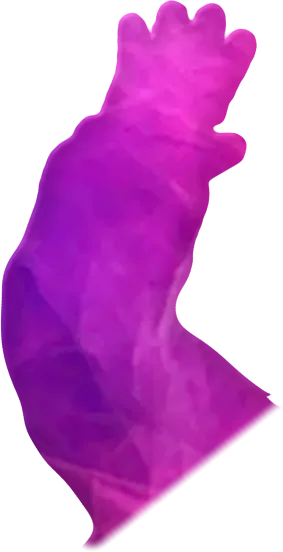
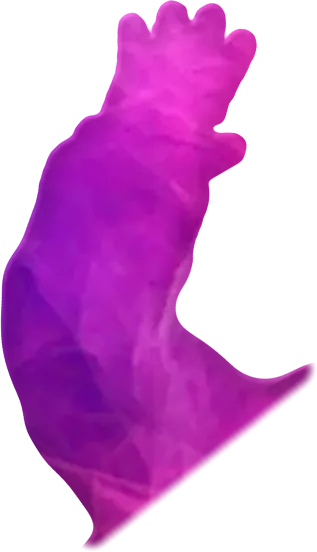
fix(astronaut): left helmet dome is the outline, no offset ring
The left figure's backpack rect stuck out past the helmet shell on the
front and top, so the shell's groove read as a second, offset circle
inside the outline. The pack now only fills the shoulders below the
helmet's equator and the photo-cut zone stops above the shoulders, so the
dome edge is the silhouette and the groove shows only where the helmet
meets the body.

Claude-Session: https://claude.ai/code/session_01AsJodUJ76uuwtQo2Mwdagu

diff --git a/docs/journey/tools/silhouette.py b/docs/journey/tools/silhouette.py
@@ -54,7 +54,7 @@ FIG = {
         erase=[],
         # clean helmet shell + visor (ellipses cx, cy, rx, ry) and backpack (rounded rect x0, y0, x1, y1, r) replace
         # the photo's head inside `zone`; `fine`: circles (cx, cy, r) smoothed lightly (gloves: keep the fingers)
-        helmet=dict(zone=(330, 60, 598, 276), shell=(471, 188, 100, 102), visor=(472, 196, 70, 72), pack=(348, 128, 598, 330, 40)),
+        helmet=dict(zone=(320, 60, 612, 226), shell=(471, 188, 100, 102), visor=(472, 196, 70, 72), pack=(326, 206, 606, 336, 48)),
         fine=[(130, 230, 120), (805, 125, 120)],
         smoke=dict(c=(600, 300), mag=3.3, sat=1.05),                 # pink / magenta / violet
         parts=[
